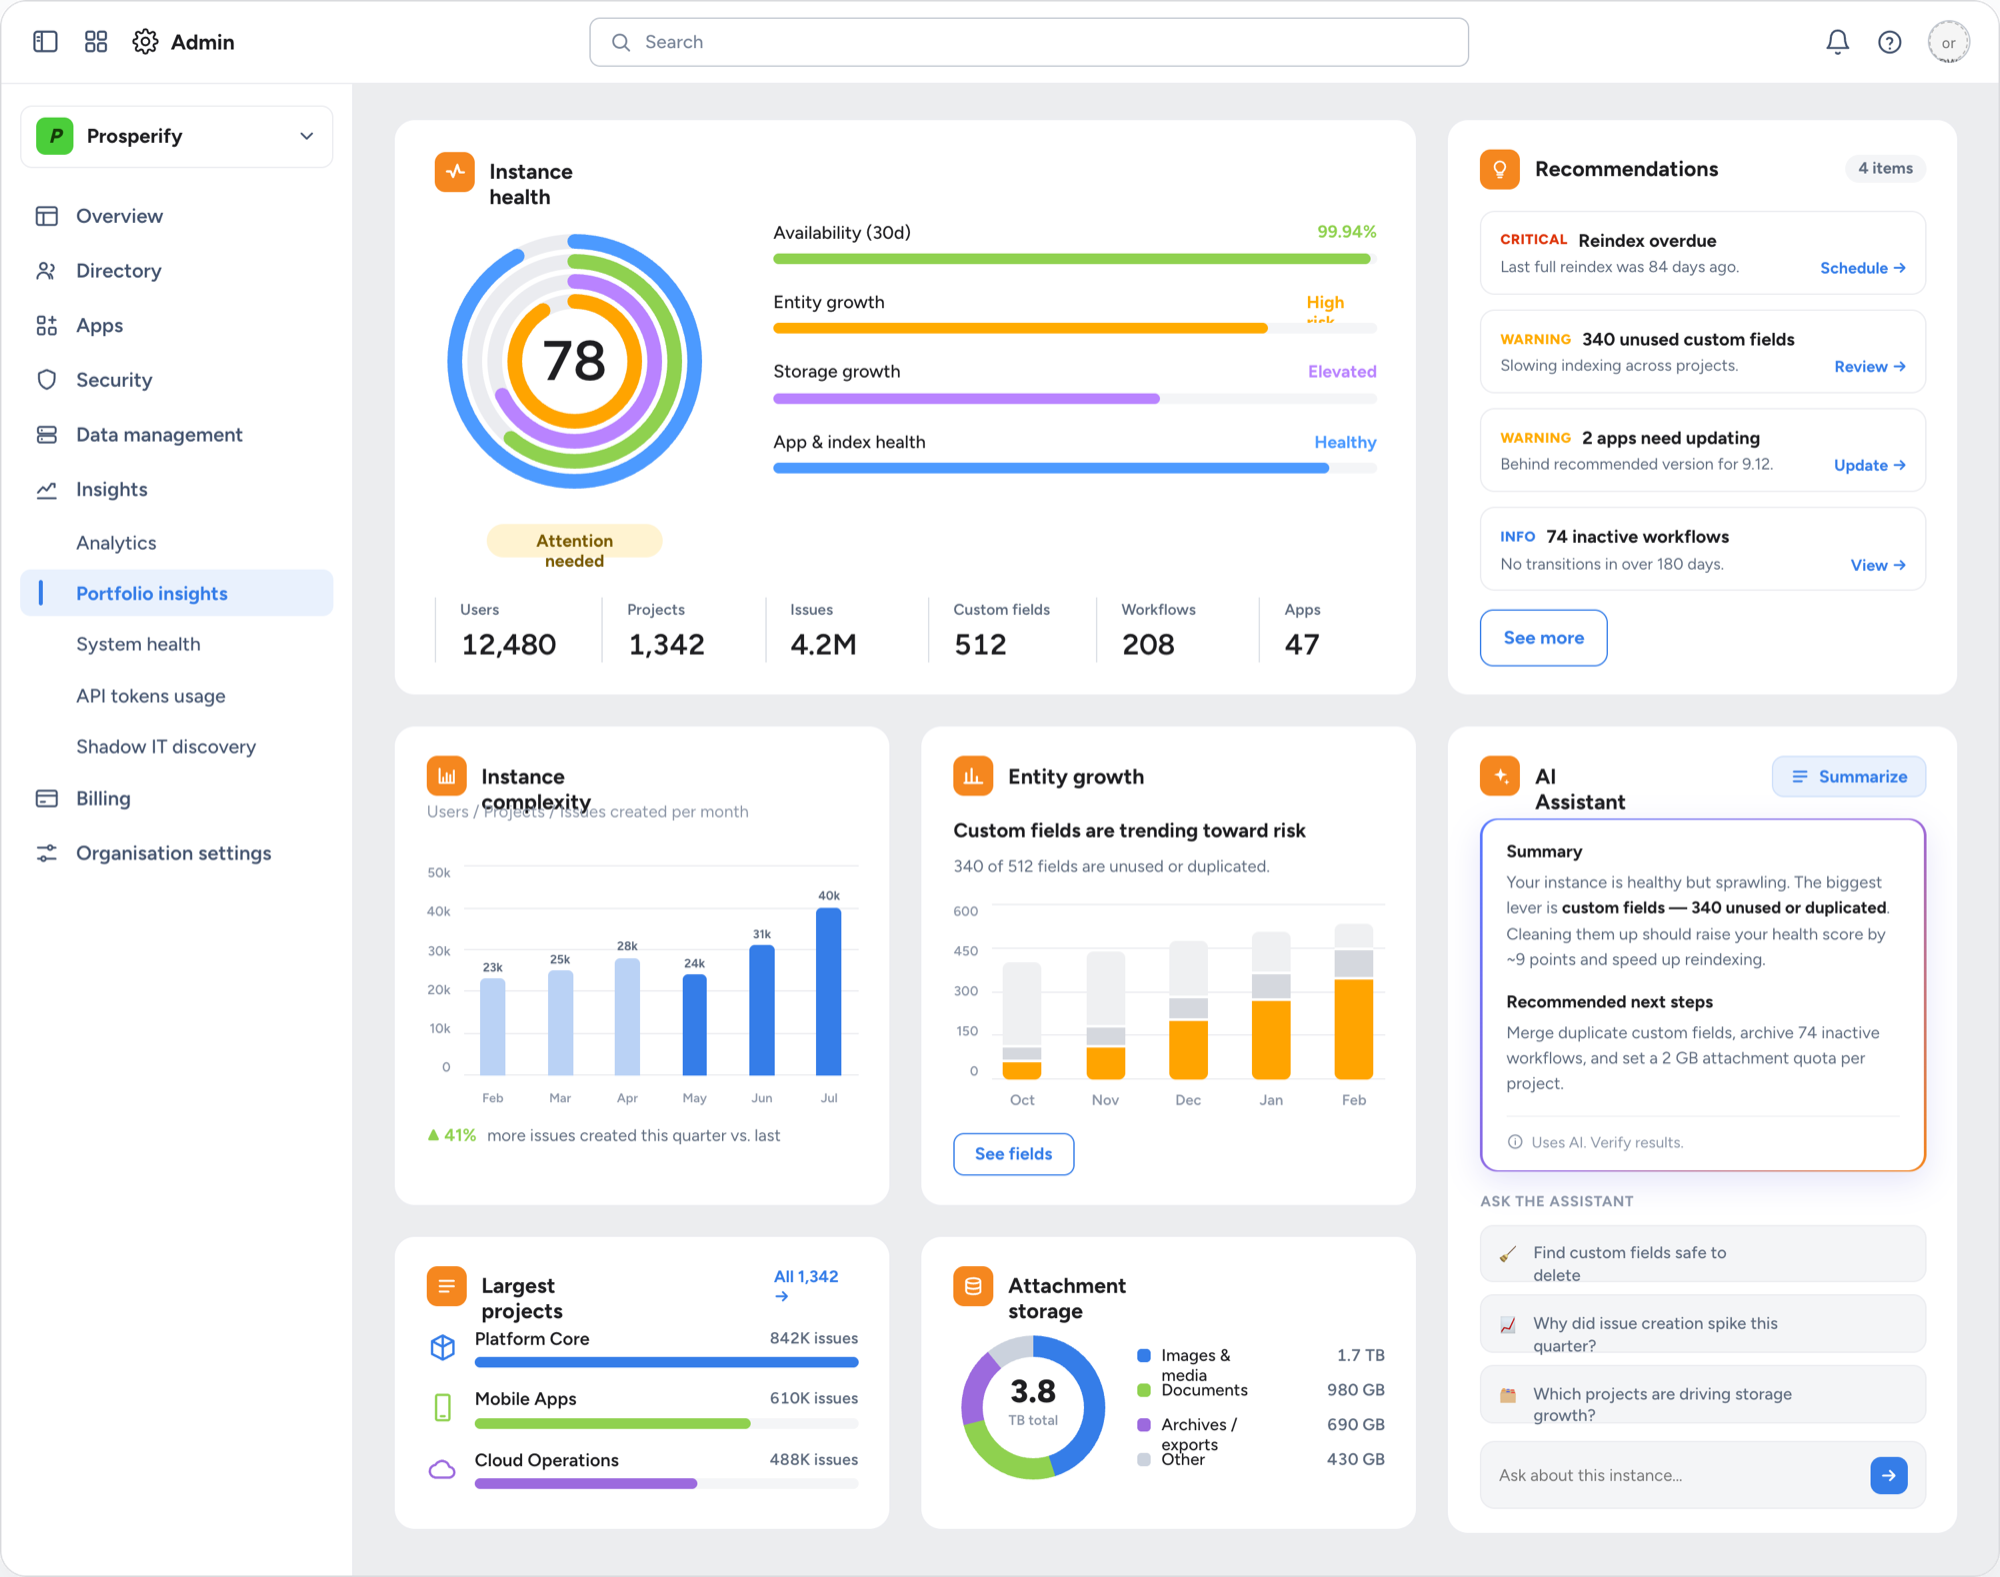
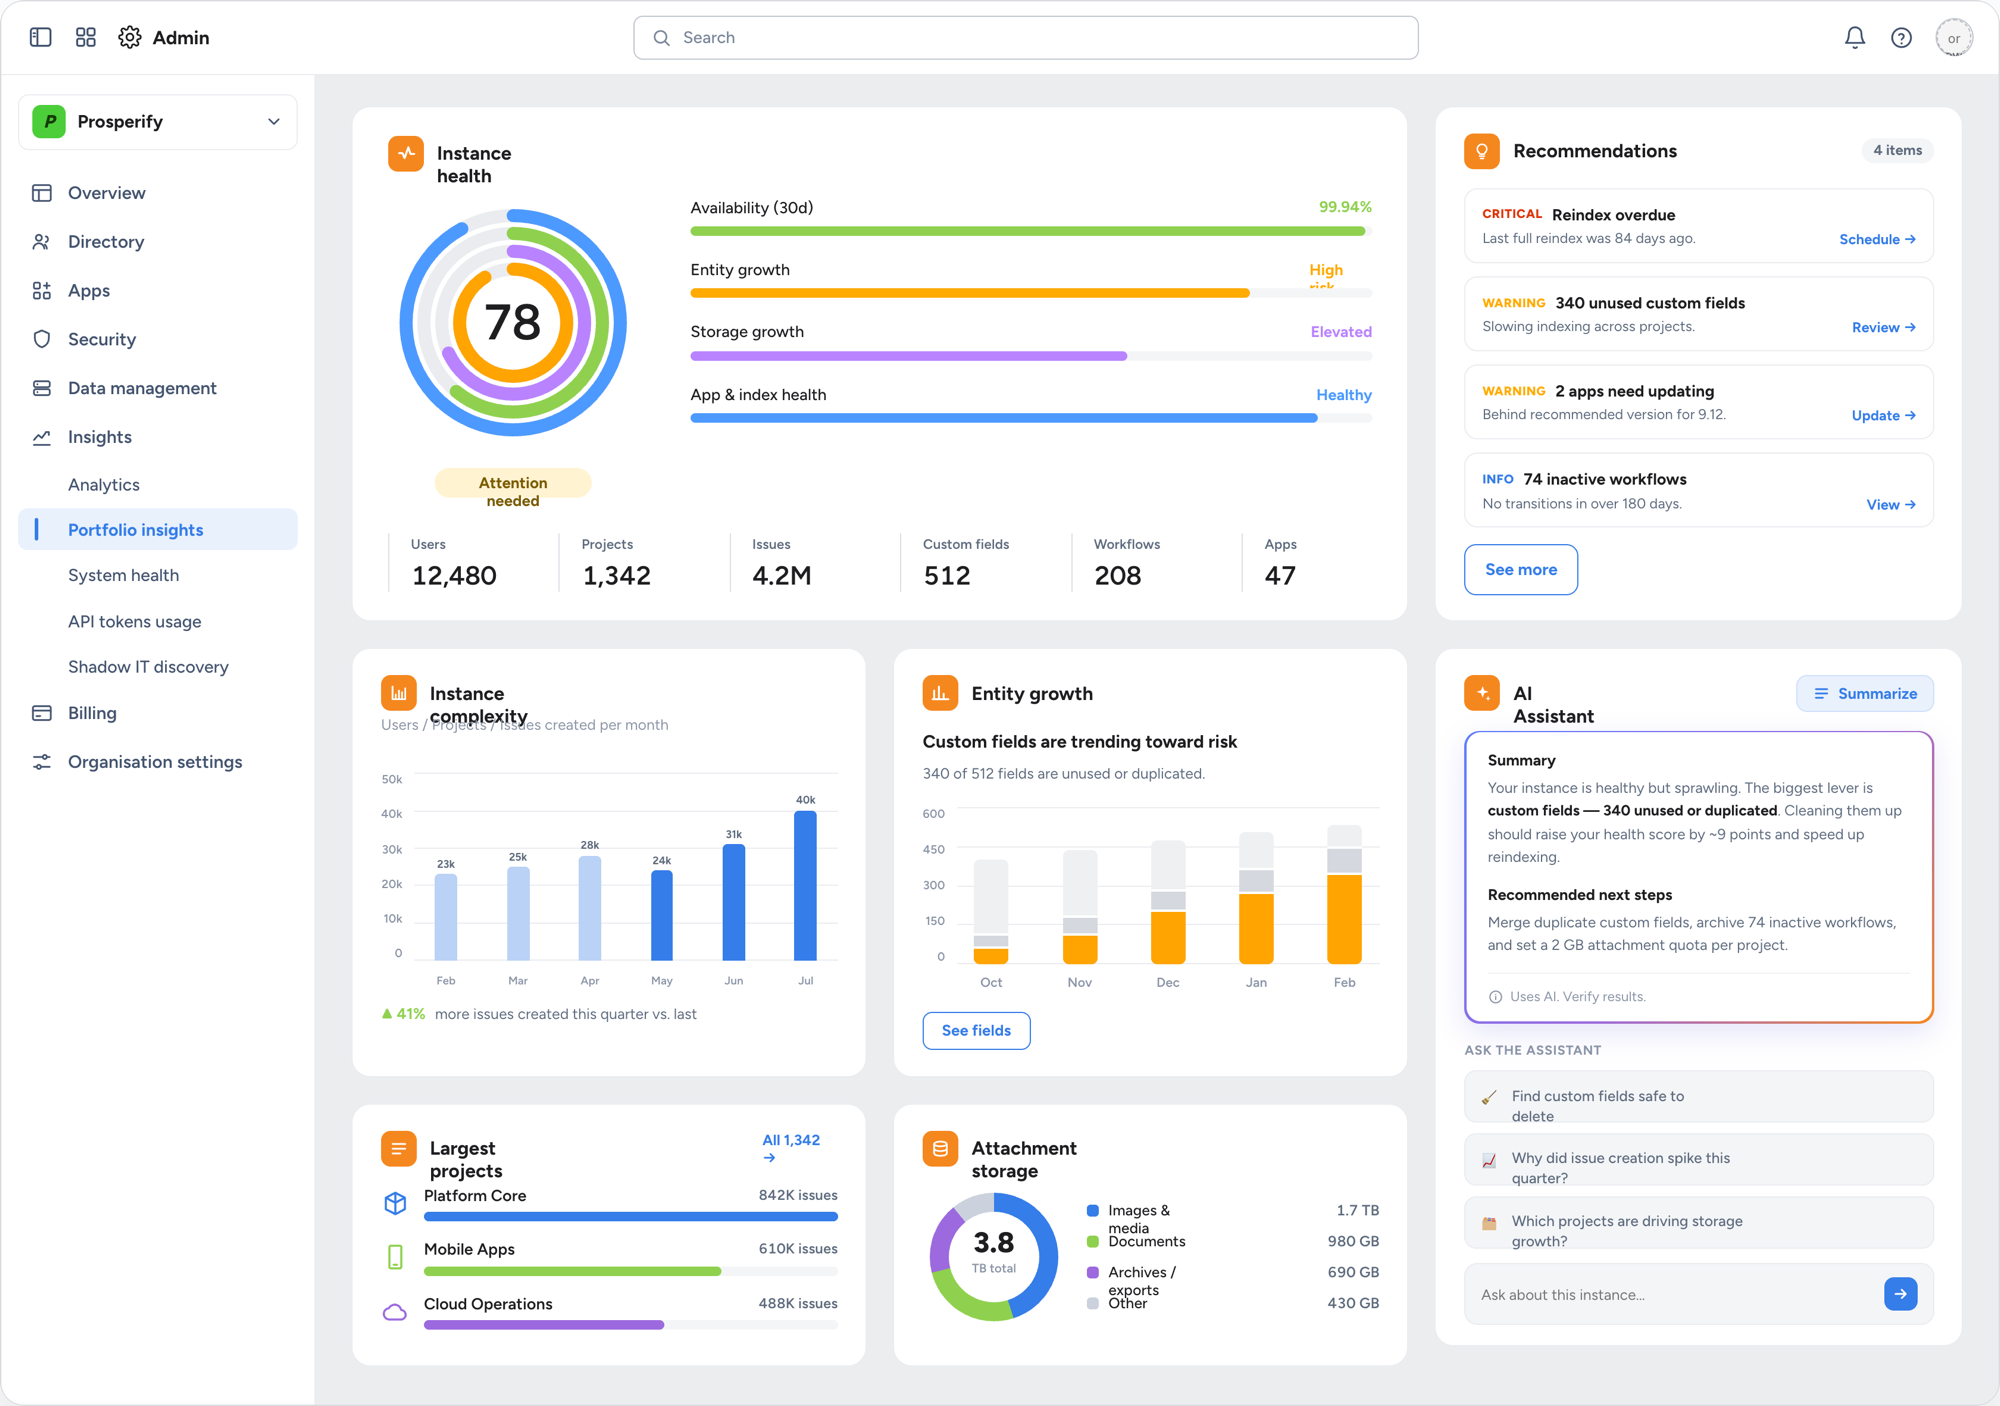
Portfolio Insights: use wider dashboard capture (body copy no longer wraps)

diff --git a/portfolio-insights.html b/portfolio-insights.html
@@ -194,7 +194,7 @@
     </div>
   </div>
   <div class="dhero-r">
-    <div class="dvisual"><img src="assets/img/dashboard.png?v=2" alt="Portfolio Insights dashboard" /></div>
+    <div class="dvisual"><img src="assets/img/dashboard.png?v=3" alt="Portfolio Insights dashboard" /></div>
     <div class="sbands">
       <div class="sband"><span class="num">33%</span><span class="desc">Reduction in time for migration planning</span></div>
       <div class="sband"><span class="num">5×</span><span class="desc">Increase in self-serve assessments for migration</span></div>

diff --git a/index.html b/index.html
@@ -312,7 +312,7 @@
           <div class="tags"><span class="tag">AI</span><span class="tag">Admin</span><span class="tag">UX/UI</span></div>
           <span class="case-link">Open case study ↗</span>
         </div>
-        <div class="visual glow"><img class="shot" src="assets/img/dashboard.png?v=2" alt="Portfolio Insights dashboard" /></div>
+        <div class="visual glow"><img class="shot" src="assets/img/dashboard.png?v=3" alt="Portfolio Insights dashboard" /></div>
       </a>
 
       <a class="case rev" href="system-health.html">
